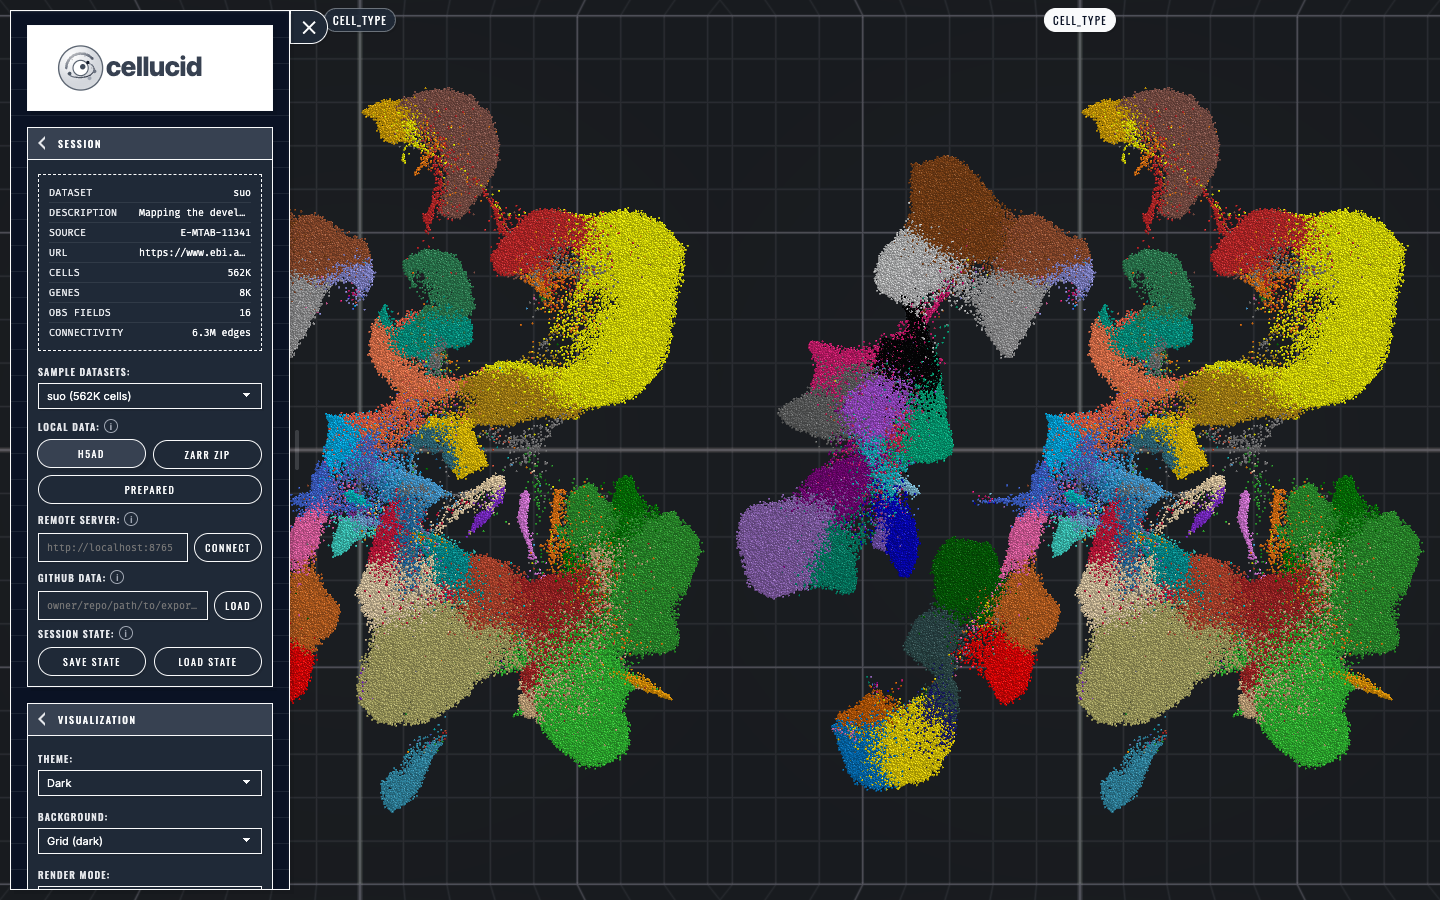
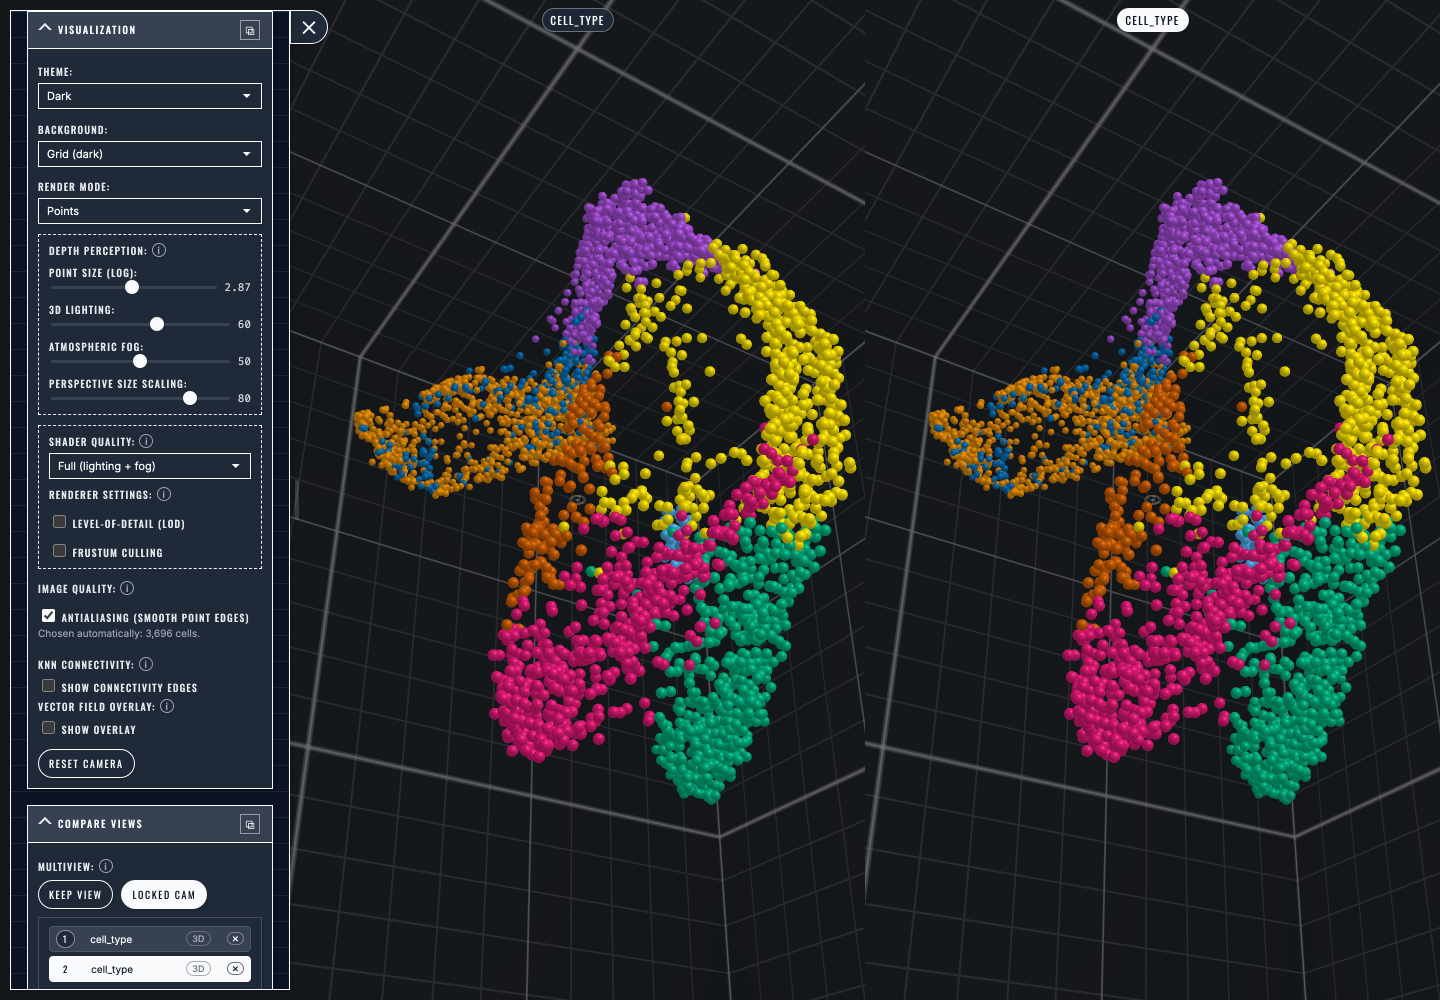
Fix

diff --git a/tests/test_docs_current_api_contract.py b/tests/test_docs_current_api_contract.py
@@ -1083,7 +1083,7 @@ def test_every_documented_screenshot_uses_its_intrinsic_responsive_width() -> No
 #
 # **This number may only go down.** It is a ratchet: it stops the backlog growing
 # while it is worked off, and reaching 0 is what closes the gap.
-UNPROVENANCED_SCREENSHOT_BUDGET = 65
+UNPROVENANCED_SCREENSHOT_BUDGET = 62
 
 # Records whose ``sha256`` does not describe the file they name, so the published
 # bytes have no provenance even though a record exists. Recapturing the scenario

diff --git a/docs/user_guide/web_app/r_screenshot_checklist/02_pages_interactions_fields_filtering.md b/docs/user_guide/web_app/r_screenshot_checklist/02_pages_interactions_fields_filtering.md
@@ -82,15 +82,21 @@ Confirmed against the tree, not inherited from the original audit.
    `*-before`/`*-after` pair under `_static/screenshots/`. The three
    `navigation-controls-*` stills show the *control panels*, not the motion the
    page is about, so the "why did the wrong view move" gap is still open.
-3. **Thirteen images in these sections have no provenance record**, so
-   `node capture.mjs check` cannot re-verify them — 12 under `web_app/`
+3. **Ten images in these sections have no provenance record**, so
+   `node capture.mjs check` cannot re-verify them — 9 under `web_app/`
    (`app-overview-cell-type`, `camera-path-configured-panel`,
    `camera-path-transport-visible`, `camera-path-unconfigured`,
-   `connectivity-edges-controls`, `connectivity-multiview`,
-   `dark-theme-multiview`, `dimension-2d-planar-default`,
-   `dimension-navigation-controls-2d`, `multiview-two-panels`,
-   `startup-loaded-build`, `welcome-startup`) and one under `filtering/`
+   `connectivity-edges-controls`, `dimension-2d-planar-default`,
+   `dimension-navigation-controls-2d`, `startup-loaded-build`,
+   `welcome-startup`) and one under `filtering/`
    (`coloring-filtering-cell-type-panel`). They predate the capture tool.
+   The three multiview frames that used to be on this list —
+   `multiview-two-panels`, `connectivity-multiview` and
+   `dark-theme-multiview` — went stale when Grid compare moved its panels out
+   from under the sidebar, and were recaptured on `pancreas` by
+   `buildMultiviewScenarios()` (`core-multiview-two-panels`,
+   `core-connectivity-multiview`, `performance-dark-theme-multiview`), so they
+   now carry provenance.
    `tests/test_docs_current_api_contract.py::test_screenshot_provenance_records_describe_the_published_images`
    holds the total across all topics at a number that may only decrease.
 4. **KNN Connectivity has UI, working controls on all five samples and two
@@ -125,6 +131,12 @@ All panels render into the single `#glcanvas` through GL viewports
 node. To photograph one panel, crop the canvas region or set
 `Layout: Edit selected view` so the panel fills the canvas. Never write a
 capture scenario that crops to a per-panel selector.
+
+`Grid compare` lays the panels out in the part of the canvas the sidebar does
+not cover, as equal cells starting at the sidebar's right edge (the whole width
+when the sidebar is closed). The one DOM anchor per panel is its title chip in
+`#view-title-layer`, centred on the panel it labels; `buildMultiviewScenarios()`
+asserts the panel geometry through those chips before every multiview capture.
 
 ### DOM crop targets
 

diff --git a/docs/user_guide/web_app/n_benchmarking_performance/08_screenshots.md b/docs/user_guide/web_app/n_benchmarking_performance/08_screenshots.md
@@ -85,18 +85,19 @@ grid. That difference matters more than the count, because point size follows
 the height of the pane a point is drawn in.
 
 ```{figure} ../../../_static/screenshots/web_app/multiview-two-panels.png
-:alt: Cellucid showing two side-by-side views of the same dataset.
+:alt: The whole window in Grid compare with the sidebar open: two equal panels fill the area to the right of the sidebar and show the Pancreas 3D embedding from the same locked camera — the left panel, the live view, coloured by cell_type, and the right panel, the kept snapshot, recoloured by S_score on a Viridis scale — each under a title chip naming its field. The sidebar, scrolled to Compare Views, lists badge 1 cell_type and the selected badge 2 S_score above the Layout select set to Grid compare, and Coloring & Filtering shows S_score in the Continuous obs select.
 :width: 1440px
 
-Two views share the full canvas height, so each point keeps its full size and
-the pair shades roughly twice the pixels of a single view. This is the most
+Two views share the full canvas height and split the width to the right of the
+sidebar equally, so each point keeps its full size and the pair draws every
+cell twice — roughly twice the point shading of a single view. This is the most
 expensive layout per unit of insight — tune in one view first, then split.
 ```
 
 ```{figure} ../../../_static/screenshots/web_app/dark-theme-multiview.png
-:alt: Two Cellucid views displayed side by side with the dark theme.
+:alt: The whole window in the dark theme on the Grid (dark) background, in Grid compare with the sidebar open: two equal panels to the right of the sidebar show the Pancreas 3D embedding coloured by cell_type from the same locked camera, each under a cell_type title chip. The sidebar, scrolled to Visualization, reads Theme Dark and Background Grid (dark), and Compare Views below it lists the two view badges.
 :width: 1440px
 
-Theme and background changes apply consistently across the comparison layout,
-and neither choice changes the cost of the frame.
+Theme and background apply to every panel of the comparison layout alike, and
+neither choice changes the cost of the frame.
 ```

diff --git a/docs/user_guide/web_app/c_core_interactions/07_screenshots.md b/docs/user_guide/web_app/c_core_interactions/07_screenshots.md
@@ -88,11 +88,12 @@ seen face-on as a flat, screen-aligned surface.
 ## Comparing views
 
 ```{figure} ../../../_static/screenshots/web_app/multiview-two-panels.png
-:alt: Cellucid showing two side-by-side views of the same dataset.
+:alt: The whole window in Grid compare with the sidebar open: two equal panels fill the area to the right of the sidebar and show the Pancreas 3D embedding from the same locked camera — the left panel, the live view, coloured by cell_type, and the right panel, the kept snapshot, recoloured by S_score on a Viridis scale — each under a title chip naming its field. The sidebar, scrolled to Compare Views, lists badge 1 cell_type and the selected badge 2 S_score above the Layout select set to Grid compare, and Coloring & Filtering shows S_score in the Continuous obs select.
 :width: 1440px
 
-Two kept views support side-by-side comparison while retaining one dataset
-identity.
+Two kept views compare one dataset side by side. The panels split the area to
+the right of the sidebar equally, and each keeps its own coloring: the live
+view by cell_type, the selected snapshot by S_score.
 ```
 
 ## Connectivity edges
@@ -106,10 +107,13 @@ opacity, line width, and the maximum rendered edge count.
 ```
 
 ```{figure} ../../../_static/screenshots/web_app/connectivity-multiview.png
-:alt: Two Cellucid views showing the same point cloud and connectivity edges.
+:alt: Two equal panels filling the whole window with the sidebar closed, both showing the Pancreas 3D embedding coloured by cell_type from the same locked camera, and in both the KNN connectivity edges, drawn at line width 2.0, form a grey web between the cells.
 :width: 1440px
 
-Connectivity rendering remains synchronized across kept views of the dataset.
+Connectivity settings apply to every panel: the edges were switched on, and
+widened to 2.0, while the kept snapshot was the selected view, and the live
+panel draws them too. With the sidebar closed the two panels split the whole
+window.
 ```
 
 ## Camera paths

diff --git a/docs/user_guide/web_app/n_benchmarking_performance/03_large_dataset_best_practices.md b/docs/user_guide/web_app/n_benchmarking_performance/03_large_dataset_best_practices.md
@@ -285,12 +285,13 @@ If large datasets are unusable, triage in this order:
 ## Interface reference
 
 ```{figure} ../../../_static/screenshots/web_app/multiview-two-panels.png
-:alt: Cellucid showing two side-by-side views of the same dataset.
+:alt: The whole window in Grid compare with the sidebar open: two equal panels fill the area to the right of the sidebar and show the Pancreas 3D embedding from the same locked camera — the left panel, the live view, coloured by cell_type, and the right panel, the kept snapshot, recoloured by S_score on a Viridis scale — each under a title chip naming its field. The sidebar, scrolled to Compare Views, lists badge 1 cell_type and the selected badge 2 S_score above the Layout select set to Grid compare, and Coloring & Filtering shows S_score in the Continuous obs select.
 :width: 1440px
 
 Two kept views support side-by-side comparison while retaining one dataset
-identity. Note that both panes are full canvas height: this row layout keeps
-points at full size, which is why it is the costliest arrangement per pane.
+identity. Both panels are the full canvas height and split the width to the
+right of the sidebar equally: this row layout keeps points at full size, which
+is why it is the costliest arrangement per panel.
 ```
 
 ---

diff --git a/docs/user_guide/web_app/r_screenshot_checklist/01_pages_orientation_data_loading.md b/docs/user_guide/web_app/r_screenshot_checklist/01_pages_orientation_data_loading.md
@@ -280,7 +280,7 @@ Confirmed by reading the source, so `needs` entries below can name real targets:
      - Step 4 (line 105): after clicking `#split-keep-view-btn`, full window
        showing two panels and the new view badge, cursor on "Keep view".
        `_static/screenshots/web_app/tour-04-keep-view.png`. Note
-       `web_app/multiview-two-panels.png` already exists (1440x900) and is used
+       `web_app/multiview-two-panels.png` already exists (1440x1000) and is used
        in section C and N — check it before capturing a near-duplicate; if it
        shows the badge clearly, reuse it here and skip the capture.
      - Step 5 (line 113): `.highlight-mode-btn[data-mode="lasso"]` active, a
@@ -1022,7 +1022,7 @@ terminal and Jupyter captures:
   highlight groups, pages, and the "what you see is per view" rule.
   **That page is in section F, not mine** — but it is the page that would carry
   any screenshot a reader might come to `g_` looking for, and it is worth telling
-  whoever audits section F that `web_app/multiview-two-panels.png` (1440x900,
+  whoever audits section F that `web_app/multiview-two-panels.png` (1440x1000,
   already in the tree) and `highlighting_selection/highlighting-selected-page.png`
   already cover adjacent ground for it.
 

diff --git a/docs/user_guide/web_app/c_core_interactions/04_view_layout_live_snapshots_small_multiples.md b/docs/user_guide/web_app/c_core_interactions/04_view_layout_live_snapshots_small_multiples.md
@@ -125,11 +125,13 @@ Each badge contains:
 - `×` when that view can be removed.
 
 ```{figure} ../../../_static/screenshots/web_app/multiview-two-panels.png
-:alt: Cellucid showing two side-by-side kept views of the same dataset.
+:alt: The whole window in Grid compare with the sidebar open: two equal panels fill the area to the right of the sidebar and show the Pancreas 3D embedding from the same locked camera — the left panel, the live view, coloured by cell_type, and the right panel, the kept snapshot, recoloured by S_score on a Viridis scale — each under a title chip naming its field. The sidebar, scrolled to Compare Views, lists badge 1 cell_type and the selected badge 2 S_score above the Layout select set to Grid compare, and Coloring & Filtering shows S_score in the Continuous obs select.
 :width: 1440px
 
-Two panels compare one dataset while retaining independent coloring and filter
-contexts.
+Grid compare with the sidebar open. The live view (badge 1, cell_type) and a
+kept snapshot recoloured by S_score (badge 2, selected) sit in two equal panels
+to the right of the sidebar, framed by one locked camera, and each panel keeps
+its own coloring.
 ```
 
 Removing `×` from a snapshot deletes that snapshot. When at least two snapshots

diff --git a/docs/user_guide/web_app/r_screenshot_checklist/05_pages_sessions_performance.md b/docs/user_guide/web_app/r_screenshot_checklist/05_pages_sessions_performance.md
@@ -990,6 +990,13 @@ that instruction and none of them shows it.
     `:width: 1440px` each. **Deferred** with the rest of section N.
   - Promote the five new benchmark-panel captures from `05` into this gallery so
     the section owns its images.
+- **recaptured** — Both multiview frames went stale when Grid compare moved its
+  panels into the area the sidebar leaves uncovered (equal panels starting at
+  the sidebar's right edge, where the left panel used to sit partly under the
+  sidebar). They were recaptured on `pancreas` at 1440 × 1000 by
+  `core-multiview-two-panels` and `performance-dark-theme-multiview` in
+  `docs/_tooling/screenshots/scenarios.mjs`, and both captions now state the
+  layout they show. The drop / re-caption decision above still stands.
 - **notes** — **Stale-risk by construction.** The caption for
   `benchmark-panel.png` states "Build 2026-07-26.4 … 17 FPS, a 57.67 ms frame
   sample, full LOD, all 10.0M points visible, generation in 1,592 ms", and the

diff --git a/docs/user_guide/web_app/r_screenshot_checklist/index.md b/docs/user_guide/web_app/r_screenshot_checklist/index.md
@@ -58,7 +58,7 @@ Where the gaps now are:
 - **``l_sessions_sharing`` and ``n_benchmarking_performance``** carry the thinnest
   coverage of the illustrated sections — 34 directives over 23 pages, 12 of them
   with none.
-- **Provenance, not count, is the live risk.** 65 of the 155 published images
+- **Provenance, not count, is the live risk.** 62 of the 155 published images
   have no record in ``captures.json`` and therefore cannot be re-verified by
   ``node capture.mjs check``. That absence is what let an empty screenshot ship.
   ``tests/test_docs_current_api_contract.py::test_screenshot_provenance_records_describe_the_published_images``
